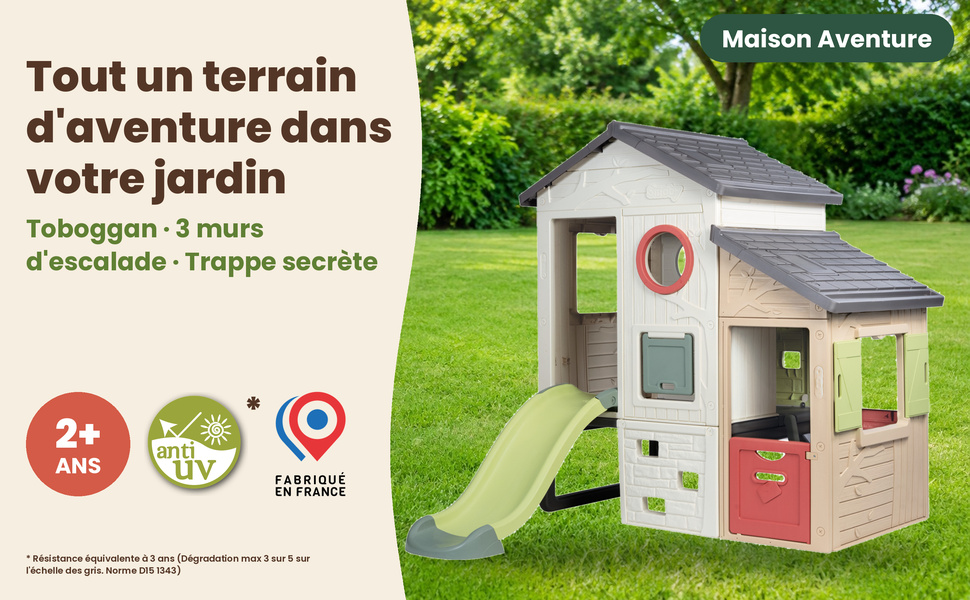
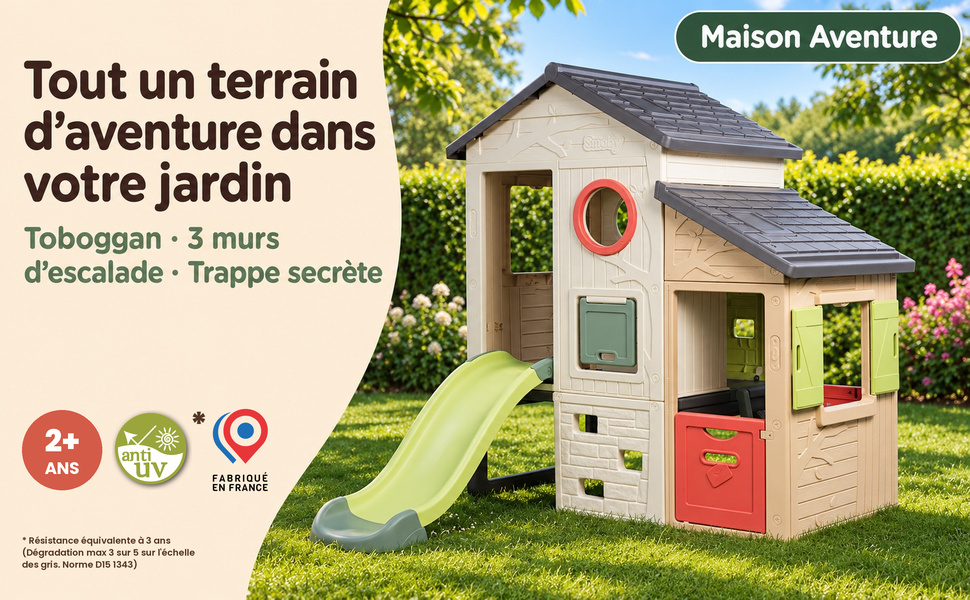
Maison Aventure : hero ChatGPT avec produit intégré, badges officiels posés par script
Claude-Session: https://claude.ai/code/session_01D96YY9CFJwroiWUzPHxQs7

diff --git a/tools/hero_overlay.py b/tools/hero_overlay.py
@@ -1,0 +1,30 @@
+# Pose les badges officiels sur un hero généré par ChatGPT (zone badges laissée vide).
+# Usage : python3 tools/hero_overlay.py <spec.json>
+# spec : {"src":"gpt_hero.jpg","out":"hero.jpg","age":"2+","anti_uv":true,"fab":"light"|"cartouche"|null,"footnote":"...","y":420,"x":22,"d":80,"foot_y":545,"foot_w":36}
+import json, os, sys, textwrap
+from PIL import Image, ImageDraw
+sys.path.insert(0, os.path.dirname(__file__))
+from aplus import F
+SS = 3; W, H = 970, 600
+CORAL = (212, 91, 71); BROWN = (84, 54, 38)
+LOGOS = os.path.join(os.path.dirname(__file__), 'assets', 'logos')
+sp = json.load(open(sys.argv[1])); base = os.path.dirname(os.path.abspath(sys.argv[1]))
+p = lambda f: f if os.path.isabs(f) else os.path.join(base, f)
+img = Image.open(p(sp['src'])).convert('RGB').resize((W * SS, H * SS), Image.LANCZOS).convert('RGBA')
+d = ImageDraw.Draw(img); D = sp.get('d', 80) * SS; x = sp.get('x', 22) * SS; y = sp.get('y', 420) * SS; gap = 10 * SS
+d.ellipse((x, y, x + D, y + D), fill=CORAL)
+a = sp.get('age', '2+'); f1 = F(int(D * 0.38), 800); f2 = F(int(D * 0.21), 700)
+bb = d.textbbox((0, 0), a, font=f1); d.text((x + (D - (bb[2] - bb[0])) / 2 - bb[0], y + D * 0.12), a, font=f1, fill='white')
+bb = d.textbbox((0, 0), 'ANS', font=f2); d.text((x + (D - (bb[2] - bb[0])) / 2 - bb[0], y + D * 0.58), 'ANS', font=f2, fill='white')
+x += D + gap
+if sp.get('anti_uv'):
+    uv = Image.open(os.path.join(LOGOS, 'logo_anti_uv.png')).convert('RGBA').resize((D, D), Image.LANCZOS); img.alpha_composite(uv, (x, y))
+    d.text((x + D - 2 * SS, y - 8 * SS), '*', font=F(int(D * 0.4), 800), fill=BROWN); x += D + gap
+if sp.get('fab'):
+    fn = 'fab_bloc_rvb.png' if sp['fab'] == 'light' else 'fab_bloc_cartouche_rvb.jpg'
+    fb = Image.open(os.path.join(LOGOS, fn)).convert('RGBA'); fh = int(D * 1.3)
+    fb = fb.resize((round(fb.width * fh / fb.height), fh), Image.LANCZOS); img.alpha_composite(fb, (x, y - int(D * 0.15)))
+if sp.get('footnote'):
+    for k, ln in enumerate(textwrap.wrap('* ' + sp['footnote'], sp.get('foot_w', 36))):
+        d.text((sp.get('x', 22) * SS, (sp.get('foot_y', 545) + k * 12) * SS), ln, font=F(9 * SS, 600), fill=BROWN)
+img.convert('RGB').resize((W, H), Image.LANCZOS).save(p(sp['out']), quality=95, subsampling=0); print('ok')
